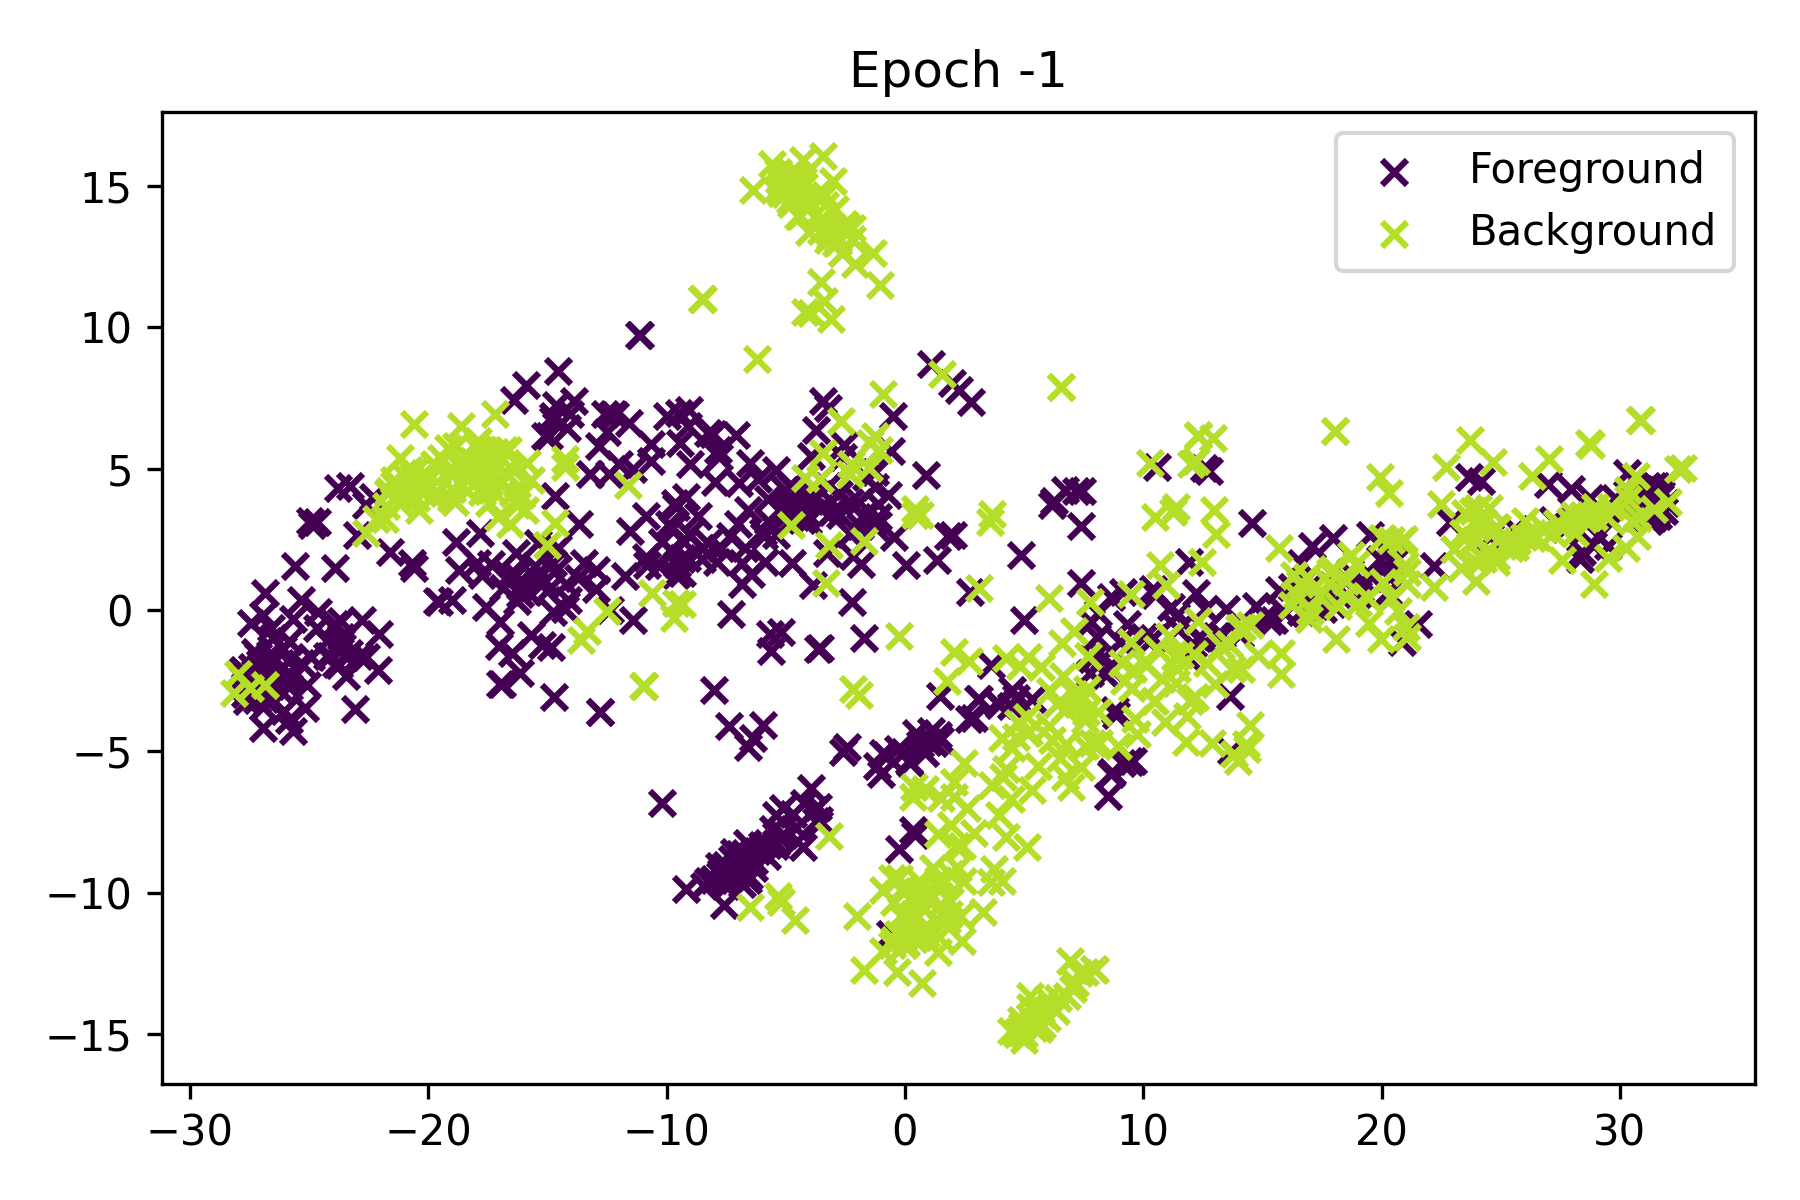
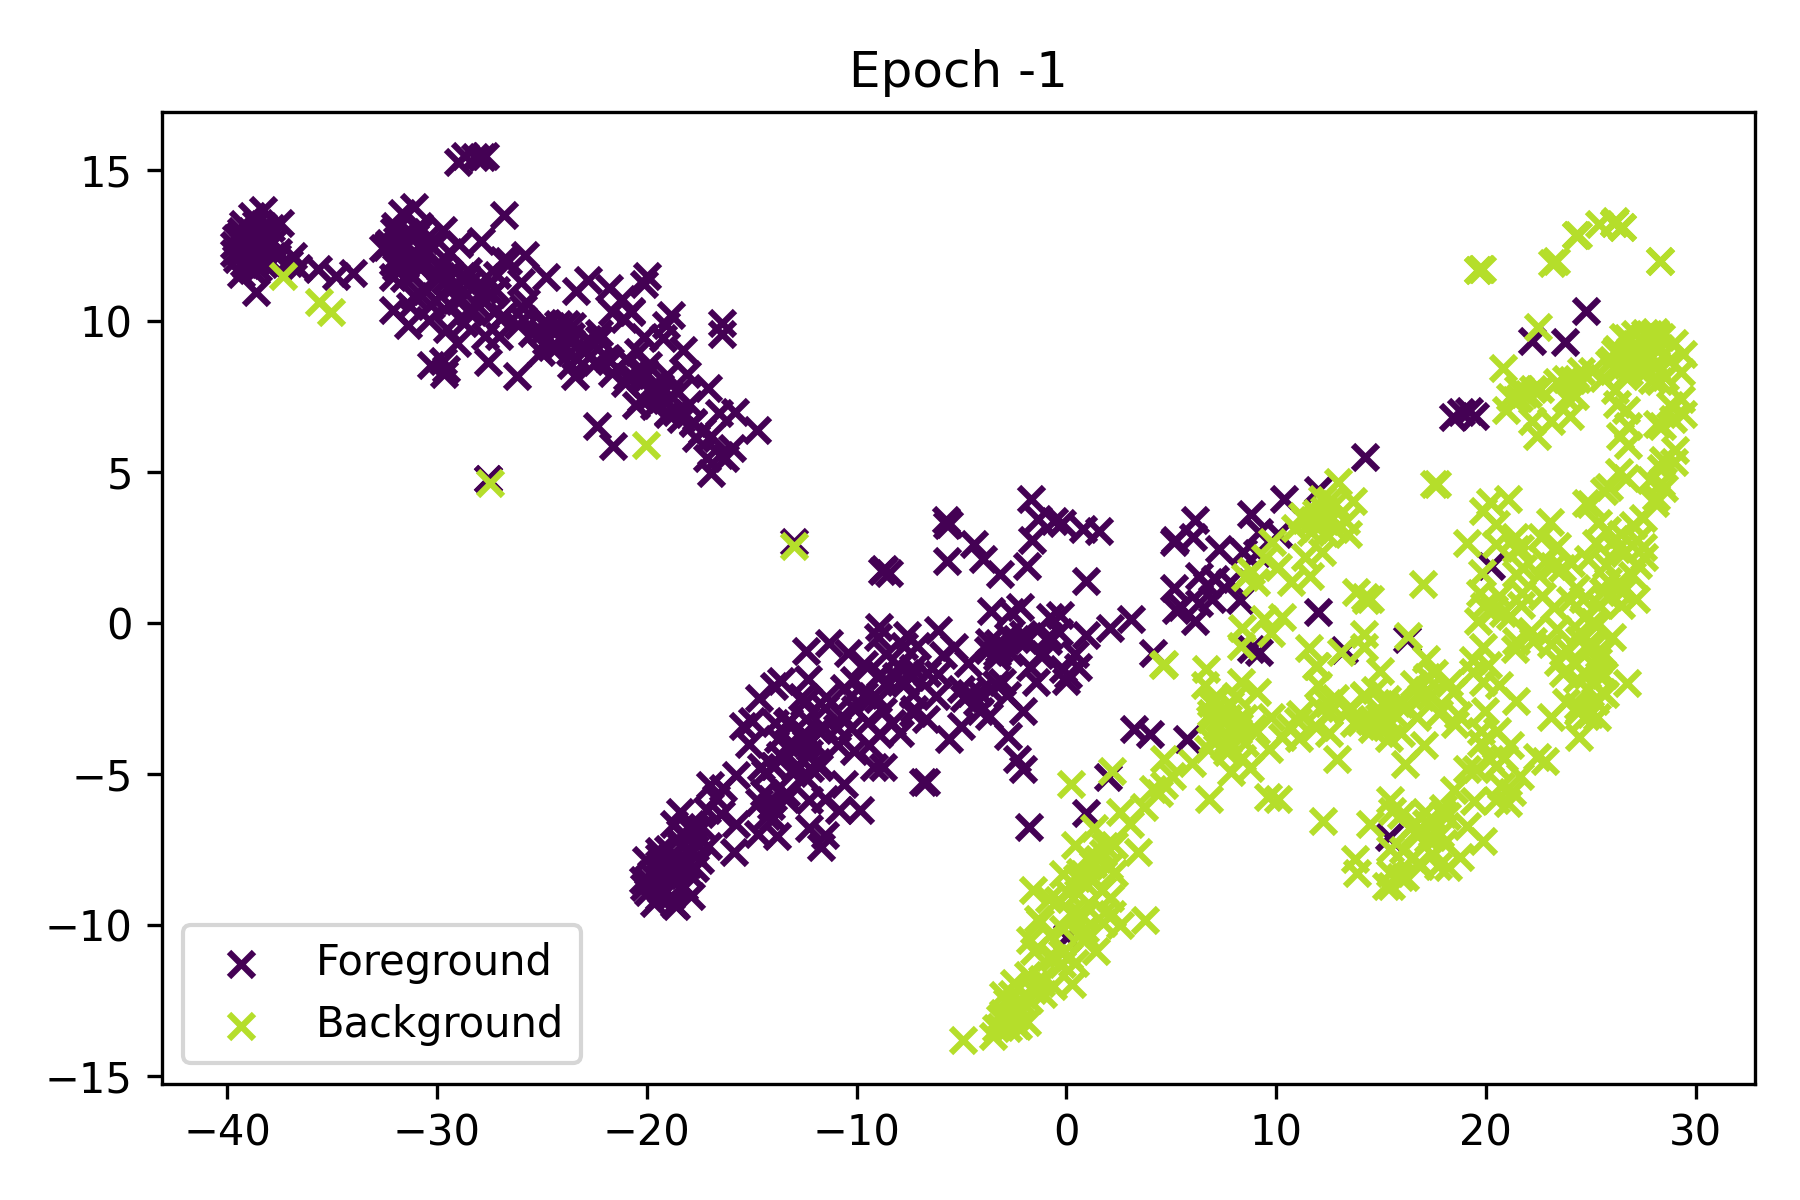
Confirm trivial case works

diff --git a/viz.py b/viz.py
@@ -35,7 +35,7 @@ def save_tcnb_graph(model, save_path, epoch):
         dataset = pickle.load(f)
     model = model.to(device)
     
-    path, img, mask = dataset[4]
+    path, img, mask = dataset[150]
 
     img = img_as_float(img)
     img = torch.from_numpy(img).permute(2, 0, 1)  # C, H, W
